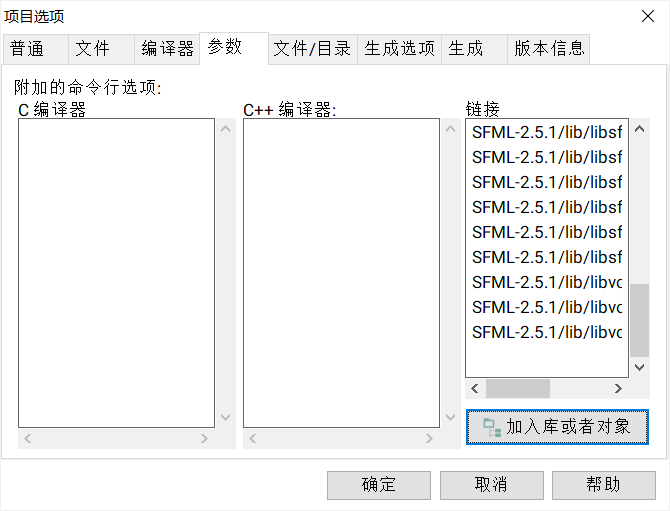
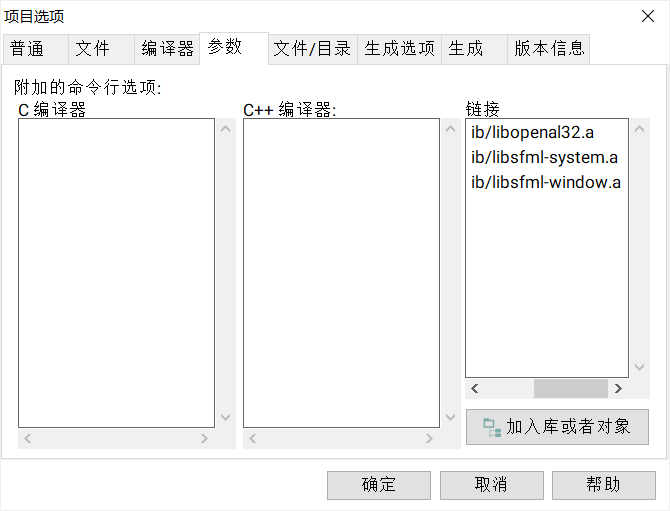
修正链接过多库

Changed region(s): [[0.6866, 0.2348, 0.9851, 0.7045], [0.6866, 0.7339, 0.9851, 0.8806]]

diff --git a/book/01_序章：C++ 程序的生成流程/03_实验：手动引用第三方库.tex b/book/01_序章：C++ 程序的生成流程/03_实验：手动引用第三方库.tex
@@ -97,7 +97,7 @@ g++.exe main.o JsonCpp/src/lib_json/json_reader.o JsonCpp/src/lib_json/json_valu
 			\label{fig:manual-library-4}
 		\end{figure}
 
-		\item 将附加链接库添加到项目中。\label{item:exp-2-3-3}在“项目属性”对话框中，进入“参数”选项卡，点击“链接”文本框下的“加入库或者对象”，选择项目目录下 \lstinline[language={}]{SFML-2.5.1/lib} 中所有扩展名为 \lstinline[language={}]{.a} 的文件。完成后的“项目属性”对话框如图 \ref{fig:manual-library-5} 所示。
+		\item 将附加链接库添加到项目中。\label{item:exp-2-3-3}在“项目属性”对话框中，进入“参数”选项卡，点击“链接”文本框下的“加入库或者对象”，选择项目目录下 \lstinline[language={}]{SFML-2.5.1/lib} 中的 \lstinline[language={}]{libopenal32.a}、\lstinline[language={}]{libsfml-system.a}、\lstinline[language={}]{libsfml-window.a}。完成后的“项目属性”对话框如图 \ref{fig:manual-library-5} 所示。
 
 		\begin{figure}
 			\centering
@@ -130,20 +130,20 @@ int main()
 }
 		\end{lstlisting}
 
-		\item 编译代码。“编译日志”窗口记录的命令如下（第 3 行的命令是节选）。
+		\item 编译代码。“编译日志”窗口记录的命令如下。
 
 		\begin{lstlisting}[language={}]
 g++.exe -c main.cpp -o main.o -I"Dev-Cpp/TDM-GCC-64/include" -I"JsonCpp/include" -I"SFML-2.5.1/include"
 
-g++.exe main.o JsonCpp/src/lib_json/json_reader.o JsonCpp/src/lib_json/json_value.o JsonCpp/src/lib_json/json_writer.o -o UseLibrary.exe -L"Dev-Cpp/TDM-GCC-64/lib" -static-libgcc SFML-2.5.1/lib/libFLAC.a SFML-2.5.1/lib/libfreetype.a ...
+g++.exe main.o json_reader.o json_value.o json_writer.o -o UseLibrary.exe -L"Dev-Cpp/TDM-GCC-64/lib" -static-libgcc SFML-2.5.1/lib/libopenal32.a SFML-2.5.1/lib/libsfml-system.a SFML-2.5.1/lib/libsfml-window.a
 		\end{lstlisting}
 
-		\item 将动态链接库拷贝到可执行文件所在目录。\label{item:exp-2-3-6}将 \lstinline[language={}]{SFML/bin} 中所有的 \lstinline[language={}]{.dll} 文件拷贝到项目根目录中，保证生成的 \lstinline[language={}]{.exe} 文件与这些 \lstinline[language={}]{.dll} 文件位于同一目录，如图 \ref{fig:manual-library-6} 所示。
+		\item 将动态链接库拷贝到可执行文件所在目录。\label{item:exp-2-3-6}将 \lstinline[language={}]{SFML/bin} 中的 \lstinline[language={}]{openal32.dll}、\lstinline[language={}]{sfml-system-2.dll}、\lstinline[language={}]{sfml-window-2.dll} 拷贝到项目根目录中，保证生成的 \lstinline[language={}]{.exe} 文件与这些 \lstinline[language={}]{.dll} 文件位于同一目录，如图 \ref{fig:manual-library-6} 所示。
 
 		\begin{figure}
 			\centering
 			\includegraphics[width=0.75\linewidth]{assets/manual-library-6}
-			\caption{需要保证所有 \lstinline[language={}]{.dll} 文件与 \lstinline[language={}]{.exe} 文件位于同一目录。}
+			\caption{需要保证这些 \lstinline[language={}]{.dll} 文件与 \lstinline[language={}]{.exe} 文件位于同一目录。}
 			\label{fig:manual-library-6}
 		\end{figure}
 
@@ -278,14 +278,15 @@ main.obj : error LNK2019: 无法解析的外部符号 "void __cdecl foo(void)" (
 		\item 在“文件/目录”选项卡的“库目录”子选项卡中，添加路径 \lstinline[language={}]{SFML-2.5.1/lib}。
 	\end{enumerate}
 
-	删除编译好的可执行文件，重新编译，却发现出现如下错误（节选）。
+	删除编译好的可执行文件，重新编译，却发现出现如下错误。
 
 	\begin{lstlisting}[language={}]
-g++.exe: error: libFLAC.a: No such file or directory
-g++.exe: error: libfreetype.a: No such file or directory
+g++.exe: error: libopenal32.a: No such file or directory
+g++.exe: error: libsfml-system.a: No such file or directory
+g++.exe: error: libsfml-window.a: No such file or directory
 	\end{lstlisting}
 
-	这似乎说明我们添加的库目录没有起作用。事实上，链接外部库应该使用编译选项 \lstinline[language={}]{-l}，且无需以 \lstinline[language={}]{lib} 开头、无需指定扩展名。例如，我们需要把“链接”文本框中的 \lstinline[language={}]{libFLAC.a} 修改为 \lstinline[language={}]{-lFLAC}。像前文那样直接写中间文件路径并不是标准的链接外部库的方式，那种写法应当只用于刚刚编译好的中间文件的链接；\textbf{使用 \lstinline[language={}]{-L} 指定的附加链接目录只对使用 \lstinline[language={}]{-l} 选项指定的库有效}也印证了这一观点。
+	这似乎说明我们添加的库目录没有起作用。事实上，链接外部库应该使用编译选项 \lstinline[language={}]{-l}，且无需以 \lstinline[language={}]{lib} 开头、无需指定扩展名。例如，我们需要把“链接”文本框中的 \lstinline[language={}]{libopenal32.a} 修改为 \lstinline[language={}]{-lopenal32}。像前文那样直接写中间文件路径并不是标准的链接外部库的方式，那种写法应当只用于刚刚编译好的中间文件的链接；\textbf{使用 \lstinline[language={}]{-L} 指定的附加链接目录只对使用 \lstinline[language={}]{-l} 选项指定的库有效}也印证了这一观点。
 
 	\item 适用于调试的库文件。在 \lstinline[language={}]{SFML-2.5.1/lib} 文件夹和 \lstinline[language={}]{SFML-2.5.1/bin} 文件夹中，都存在以 \lstinline[language={}]{-d} 结尾的文件。这些 d 表示 Debug，与其他库文件相比，以 \lstinline[language={}]{-d} 结尾的文件中的代码带有调试信息，代码优化的程度可能更低，更方便开发人员进行调试。
 
